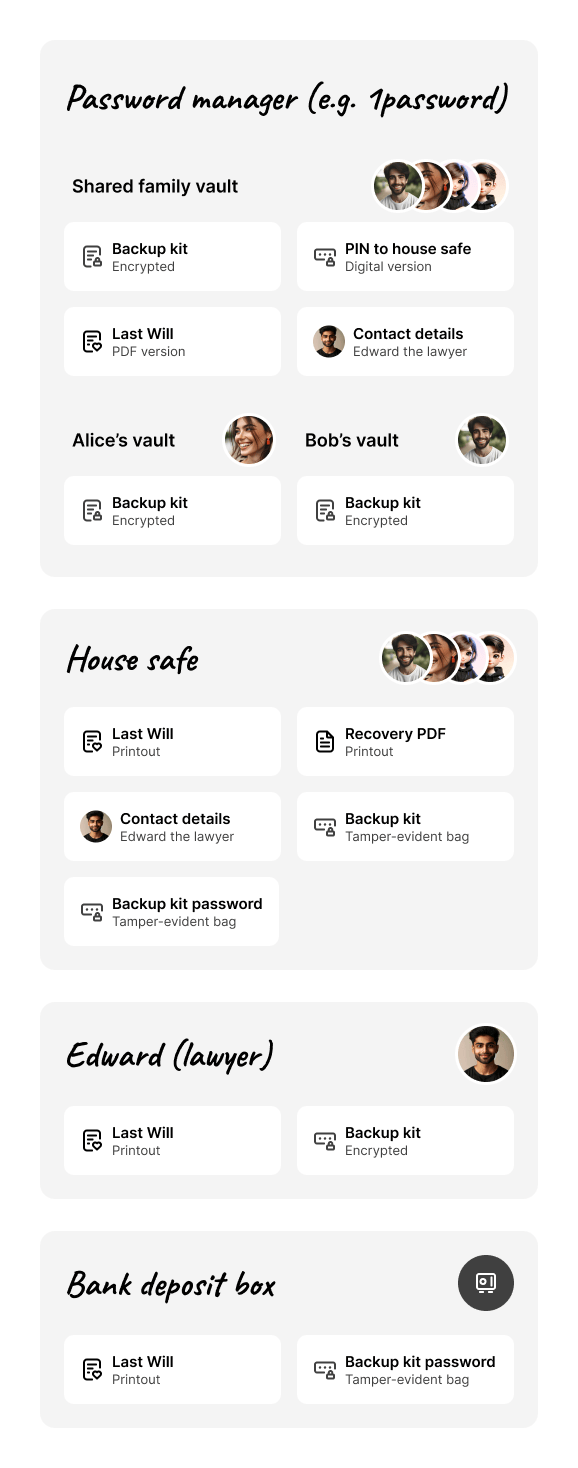
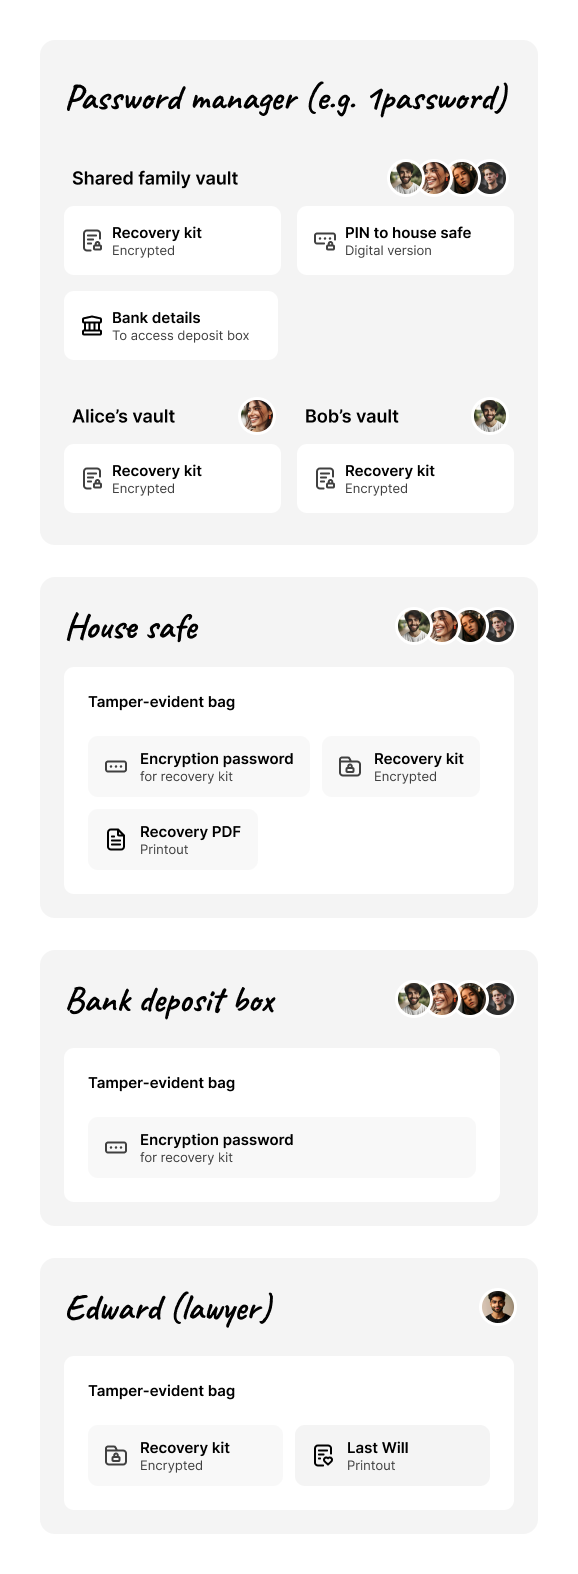
Content refactoring
- Updated most of the content, based on the current feedback.
- Added mobile images

diff --git a/guide/inheritance-wallet/backup.md b/guide/inheritance-wallet/backup.md
@@ -49,58 +49,64 @@ https://www.figma.com/file/h5GP5v5dYfpXXfEUXf6nvC/Inheritance-wallet?type=design
 
 ---
 
-As we have covered in the time-based recovery [reference design]({{ '/guide/savings-wallet/time-based-recovery/' | relative_url }}) there are two parts to backing up a multi-key wallet: the private keys as well as the wallet configuration.
+
+With the family savings wallet in place, establishing a robust backup strategy is crucial. However, there's no universal solution for wallet backups. Each family must tailor their approach based on their unique circumstances, considering factors such as:
+
+- Relationships between family members
+- Amount of funds stored
+- Access to secure storage locations
+- Technical comfort level of family members
+- Desired balance between security and accessibility
+
+The backup scheme outlined below is one potential approach. It aims to balance security, privacy, and ease of use, but may not suit every family's needs. As you read through this guide, consider how you might adapt these strategies to best fit your family's situation.
+
+## What needs to be backed up
+There are two parts to backing up a multi-key wallet: the private keys as well as the wallet configuration.
+
+- **Private Keys**: Secure backups of all private keys used in the wallet.
+- **Wallet Descriptor**: A small piece of text containing the wallet configuration.
 
 {% include picture.html
    image = "/assets/images/guide/inheritance-wallet/wallet-backup/multikey-backup-components.png"
    retina = "/assets/images/guide/inheritance-wallet/wallet-backup/multikey-backup-components@2x.png"
    alt-text = "An illustration showing the two parts of a multi-key wallet backup."
-   width = 1600
-   height = 800
+   width = 560
+   height = 480
 %}
 
-Users need not only to back up the individual private keys that are used to sign transactions. But they also have to back up the wallet configuration as such. This is needed for recovery, because the wallet application needs to know how to generate addresses and the rules that define how bitcoin can be spent from these addresses. 
+#### Private keys
+Firstly, users need to back up the private keys. In our example, the Joneses need to safely backup and store six private keys. We describe some best practices on how to back up and store private keys on the [bitcoin backups page]({{ '/guide/how-it-works/backups/' | relative_url }}). 
 
-This means that, in our use case, the Joneses need to safely backup and store six private keys as well as the wallet configuration. 
+#### Wallet configuration
+In addition to the private keys, it is also necessary to back up the wallet configuration as such. This is needed to recover a multi-key wallet, because the wallet application needs to know how to generate bitcoin addresses as well as the rules that define how bitcoin can be spent from these addresses. The wallet configuration, also called the [wallet descriptor]({{ '/guide/glossary/#output-script-descriptor' | relative_url }}), is a small piece of text that contains all the information that a wallet application needs to recover a multi-key wallet. 
 
-### Private key backups
-Of course, all six private keys need to be backed up properly. We describe some best practices on how to back up private keys on the [bitcoin backups page]({{ '/guide/how-it-works/backups/' | relative_url }}), so we won’t be covering this topic here. 
+#### Don’t store them together
+The wallet descriptor does not contain any private key material. For this reason, it does not require the same level of security as the backup of a private key. If a third party gains access to the descriptor, they can import the wallet to their own application and monitor all past and future activity. However, they cannot spend any funds, as long as they don’t have access to the necessary number of private keys to sign transactions. This is why it is critical that private keys are stored separately from the wallet descriptor. 
 
-Our app emphasizes that users should keep one of the primary keys at all times, even if they move their funds to a new wallet. The reason is simple: there is still the possibility that some bitcoins will be sent to that old wallet. Keeping one of the keys around will make sure that users will be able to spend such funds, because the recovery path will be available to them.
+## Recovery Kit
+Our application goes a bit further than only providing the users with a wallet descriptor. It generates a recovery kit that contains all necessary information in a variety of formats, so that users can easily restore a wallet in case of need. The recovery kit is a ZIP folder that includes:
 
-### Wallet configuration backup
-After the wallet has been created, the application prompts Bob to download the wallet backup kit. 
+- **Wallet backup files** compatible with third-party applications like Sparrow or Nunchuk.
+- **A Recovery PDF** with: 
+    - Wallet information and descriptor (as a QR code and in text form)
+    - Details about the two key sets and individual signing keys
+    - Visual representation of the wallet's unlocking rules
 
-#### Bob saves the backup kit
-Bob saves the the backup kit into his password manager that he has enabled on his phone. 
-
-{% include image-gallery.html pages = page.images_wallet-backup %}
-
-Alice and Bob then encrypt the ZIP file with a strong password and both of them stores a copy of it in their personal password manager account, case they need to recover the wallet themselves.
-
-#### What is in the backup kit?
-The backup kit is just a ZIP file that contains the following contents:
-
-<div class="center" markdown="1">
+If Alice or Bob need to recover the wallet, they can use the Recovery PDF to quickly understand the wallet structure and import it into his preferred wallet software.
 
 {% include picture.html
-   image = "/assets/images/guide/inheritance-wallet/wallet-backup/backup-kit-contents.png"
-   retina = "/assets/images/guide/inheritance-wallet/wallet-backup/backup-kit-contents@2x.png"
-   alt-text = "An illustration showing what is included in the backup kit."
+   image = "/assets/images/guide/inheritance-wallet/wallet-backup/recovery-pdf.png"
+   retina = "/assets/images/guide/inheritance-wallet/wallet-backup/recovery-pdf@2x.png"
+   modalImage = "/assets/images/guide/inheritance-wallet/wallet-backup/recovery-pdf@2x.png"
+   alt-text = "An example of the recovery PDF file."
    width = 1600
    height = 800
-   layout = "float-right-desktop"
-%} 
+   modalWidth = 4050
+   modalHeight = 2168
+%}
 
-**A PDF file** that contains the wallet descriptor and information about all six XPUBs. Is also contains a visual representation of the rules that are used to unlock the recovery path and the inheritance key set.
-
-**Wallet backup files in various formats**, which can be used to import the wallet to other wallet applications like Sparrow, Nunchuk or others. 
-
-</div>
-
-## Backup distribution
-
-Alice and Bob are not willing to trust their life savings to one application. That's why they carefully chose the way in which they store the above wallet backup material. The illustration below shows the chosen setup in more detail.
+## Backup Strategy
+Alice and Bob want to ensure that they can restore the wallet, if they ever need to. They also want to make sure that their children can access the funds if needed, while maintaining security and privacy. They decide to distribute the wallet backup material such that there are two main acces routes to retrieve it. The diagram below provides a high-level overview. 
 
 {% include picture.html
    image = "/assets/images/guide/inheritance-wallet/wallet-backup/recovery-tool-distribution.png"
@@ -118,54 +124,124 @@ Alice and Bob are not willing to trust their life savings to one application. Th
    modalHeightMobile = 2936
 %}
 
-Please note that this is one of many possible ways to approach wallet backups and should not be understood as the only correct way to do it.
+### Primary Access (Self-Recovery)
+The primary access setup makes sure that they don’t need anybody else to retrieve the backup material and recover the wallet. To achieve this, Alice and Bob distribute the material between their home safe and the password manager.
 
-It is important that users determine the best way to handle backups based on their own specific circumstances. Factors that will influence such decisions include the relationship between family members, the amount of funds stored, their access to safe locations, etc. Based on these and other factors it can be more appropriate to chose a simpler or more advanced backup scheme. 
+#### Home Safe
 
-We would also like to reiterate the point made in the "Use case & scope" page: the complexity of the backup scheme increases with the complexity of the wallet configuration. Therefore, user education is critical during wallet creation as well as during the backup phase.
+Bob places the following items in a tamper-evident bag and stores it in their home safe:
 
-## Assembling the backup material
-
-The illustration above reveals that Christina and David can access in two different ways.
-
-#### Self-sovereign route
-Bob and Alice want to provide the children a way to access the funds on their own, using only the backup parts that are stored in the house safe. They store the password in a tamper-evident bag, along with a USB drive. Since electronics can fail, they also place a printout of their will and the recovery PDF in it. 
-
-The PIN to the house safe is stored in the shared family vault in the password manager, where the family also keeps other digital items.
-
-This is an acceptable trade-off for them, since they have good relationships and trust their children. After all, this is the reason they have chosen to include them in the setup in the first place.
-
-But even if Christina and David would breach that trust and recover the wallet, they would not be able to move the funds, because their inheritance keys are timelocked. They would only be able to see the balance and monitor transactions, but they would not be able to spend any bitcoins. 
-
-Because Alice and Bob access their safe regularly, they would notice that the bag with the backup material has been opened. They can then safely move the funds to a new wallet, for which they would implement more restrictive security measures.
-
-#### Assisted route
-
-But what if the first route fails? In that case, Christina and David should have a way to gain access to the backup material by going through the standard legal procedures. This is why Bob and Alice give their lawyer Edward a copy of the encrypted backup kit. The password is stored in a deposit box at their bank, in a tamper-evident bag. 
-
-This setup will prevent Edward from recovering the wallet, because he does not know how or where to access the backup kit password. It also prevents bank employees from doing so, because the backup kit is not stored in the deposit box along with the password. 
-
-But it will enable Christina and David to access both parts of the wallet backup through legal channels upon their parents' death.
-
-#### Why backup redundancy?
-The reason that there are two different ways in which Christina and David can gain access to the full backup material is redundancy. Redundancy is important because it is possible that one of the two routes fail.
-
-### Example resources
-
-Below is an example of the backup PDF file. The first page contains the information about the wallet itself. This includes the name of the wallet as well as the [wallet descriptor]({{ '/guide/glossary/#output-script-descriptor' | relative_url }}) in the form of a QR code as well as in clear text. It also shows a visual representation of the configuration of the key sets:
+- A USB drive that contains the recovery kit (unencrypted).
+- The printed Recovery PDF.
+- The encryption password for the recovery kit.
 
 {% include picture.html
-   image = "/assets/images/guide/inheritance-wallet/wallet-backup/recovery-pdf.png"
-   retina = "/assets/images/guide/inheritance-wallet/wallet-backup/recovery-pdf@2x.png"
-   modalImage = "/assets/images/guide/inheritance-wallet/wallet-backup/recovery-pdf@2x.png"
-   alt-text = "An example of the recovery PDF file."
-   width = 1600
-   height = 800
-   modalWidth = 4050
-   modalHeight = 2168
+   image = "/assets/images/guide/inheritance-wallet/wallet-backup/recovery-tool-distribution-safe.png"
+   retina = "/assets/images/guide/inheritance-wallet/wallet-backup/recovery-tool-distribution-safe@2x.png"
+   mobile = "/assets/images/guide/inheritance-wallet/wallet-backup/recovery-tool-distribution-safe-mobile.png"
+   mobileRetina = "/assets/images/guide/inheritance-wallet/wallet-backup/recovery-tool-distribution-safe-mobile@2x.png"
+   alt-text = "A diagram showing the sequence of recovery scenarios."
+   width = 682
+   height = 316
 %}
 
-The subsequent pages describe the key sets and the individual signing keys, including the friendly names that Bob has given them. This will make it more convenient in case the wallet needs to be recovered.
+
+This way, the family can access the material if needed, but any tampering would be immediately noticeable.
+
+
+#### Password Manager
+
+Alice and Bob each store an encrypted version of the recovery kit in their respective password manager vaults. Encrypting the recovery kit protects it from a potential security breach at the password manager. 
+
+{% include picture.html
+   image = "/assets/images/guide/inheritance-wallet/wallet-backup/recovery-tool-distribution-pwm.png"
+   retina = "/assets/images/guide/inheritance-wallet/wallet-backup/recovery-tool-distribution-pwm@2x.png"
+   mobile = "/assets/images/guide/inheritance-wallet/wallet-backup/recovery-tool-distribution-pwm-mobile.png"
+   mobileRetina = "/assets/images/guide/inheritance-wallet/wallet-backup/recovery-tool-distribution-pwm-mobile@2x.png"
+   alt-text = "A diagram showing the sequence of recovery scenarios."
+   width = 1600
+   height = 800
+%}
+
+#### Privacy considerations
+This approach makes a potential trade-off in terms of privacy, because the children could access the backup material and recover the wallet. This is acceptable for Alice and Bob, since they have good relationships and trust their children. After all, this is the reason they have chosen to include them in the setup in the first place.
+
+But even if Christina and David would breach their parents’ trust and import the wallet, they would not be able to move any funds, because their inheritance keys are time locked. And since Alice and Bob access their safe regularly, they would notice that the bag with the backup material has been opened. They can then safely move the funds to a new wallet, for which they would implement more restrictive security measures.
+
+### Secondary Access (Assisted Recovery)
+
+##### Separation of Backup Material
+Alice and Bob provide their lawyer, Edward, with an encrypted copy of the recovery kit. They store the password separately in a bank deposit box. This way, Christina and David can access the funds through legal channels if necessary, without compromising privacy.
+
+- **Edward's Office**: Encrypted copy of the recovery kit (without password) in a tamper-evident bag
+- **Bank Deposit Box**: Recovery kit password in a tamper-evident bag
+
+{% include picture.html
+   image = "/assets/images/guide/inheritance-wallet/wallet-backup/recovery-tool-distribution-secondary.png"
+   retina = "/assets/images/guide/inheritance-wallet/wallet-backup/recovery-tool-distribution-secondary@2x.png"
+   mobile = "/assets/images/guide/inheritance-wallet/wallet-backup/recovery-tool-distribution-secondary-mobile.png"
+   mobileRetina = "/assets/images/guide/inheritance-wallet/wallet-backup/recovery-tool-distribution-secondary-mobile@2x.png"
+   alt-text = "A diagram showing the sequence of recovery scenarios."
+   width = 751
+   height = 397
+%}
+
+
+##### Shared Password Manager
+To make sure that Christina and David will be able to retrieve both the recovery kit  and the password to decrypt it, Alice and Bob store the following pieces of information in a shared family vault:
+
+- House safe PIN
+- Lawyer's contact details
+- Bank deposit box details
+
+### Inheritance Planning
+Alice and Bob keep a copy of their Last Will in the home safe and give another to Edward, ensuring smooth inheritance processes.
+- Store a physical copy of the Last Will in the house safe.
+- Provide another copy to the lawyer.
+
+## Security and Privacy Considerations
+
+1. **Tamper-Evidence**: The tamper-evident bag in the home safe allows Alice and Bob to quickly check if anyone has attempted to access the backup materials.
+1. **Separation of Components**: By keeping the encrypted backup kit with Edward and the password in the bank deposit box, the Jones family ensures that no single party can access the funds without proper authorization.
+1. **Limited Information Sharing**: Edward can't monitor the wallet transactions because he doesn't have the password.
+1. **Redundancy**: If the home safe becomes inaccessible, Christina and David can still recover the wallet through Edward and the bank deposit box.
+1. **Simplicity**: The streamlined process makes it easier for the Jones family to maintain and use the backup system when needed.
+
+## Recovery Scenarios
+
+The setup outlined above allows The Jones family three different recovery scenarios.
+
+{% include picture.html
+   image = "/assets/images/guide/inheritance-wallet/wallet-backup/recovery-scenarios.png"
+   retina = "/assets/images/guide/inheritance-wallet/wallet-backup/recovery-scenarios@2x.png"
+   mobile = "/assets/images/guide/inheritance-wallet/wallet-backup/recovery-scenarios-mobile.png"
+   mobileRetina = "/assets/images/guide/inheritance-wallet/wallet-backup/recovery-scenarios-mobile@2x.png"
+   alt-text = "A diagram showing the sequence of recovery scenarios."
+   width = 1304
+   height = 480
+%}
+
+#### Self Recovery (Alice and Bob)
+If Alice or Bob need to recover the wallet themselves, for whatever reason, they can easily do so by using the backup materials from the home safe or their password manager. 
+
+#### Self-Sovereign Inheritance (Primary)
+If anything happens to Alice and Bob, Christina and David can access the funds using:
+- The backup materials from the home safe
+- The PIN to the safe, stored in the shared family vault of the password manager
+
+This route allows quick access while maintaining privacy within the family.
+
+#### Assisted Inheritance (Secondary)
+If the primary route fails, Christina and David can recover the wallet by:
+
+- Obtaining the encrypted backup kit from Edward (the lawyer)
+- Retrieving the password from the bank deposit box
+
+This route provides a legally verified method of inheritance while maintaining privacy and security.
+
+## Conclusion
+
+This backup strategy offers the Jones family a balanced approach to securing their multi-key wallet. It provides multiple access routes, maintains privacy, and simplifies the overall process while ensuring critical information remains protected and accessible when needed. It ensures both: immediate access for Alice and Bob and a clear path for inheritance.
 
 ---
 
@@ -175,3 +251,4 @@ The subsequent pages describe the key sets and the individual signing keys, incl
    nextUrl = "/guide/upgradeable-wallet"
    nextName = "Upgradeable wallet"
 %}
+
